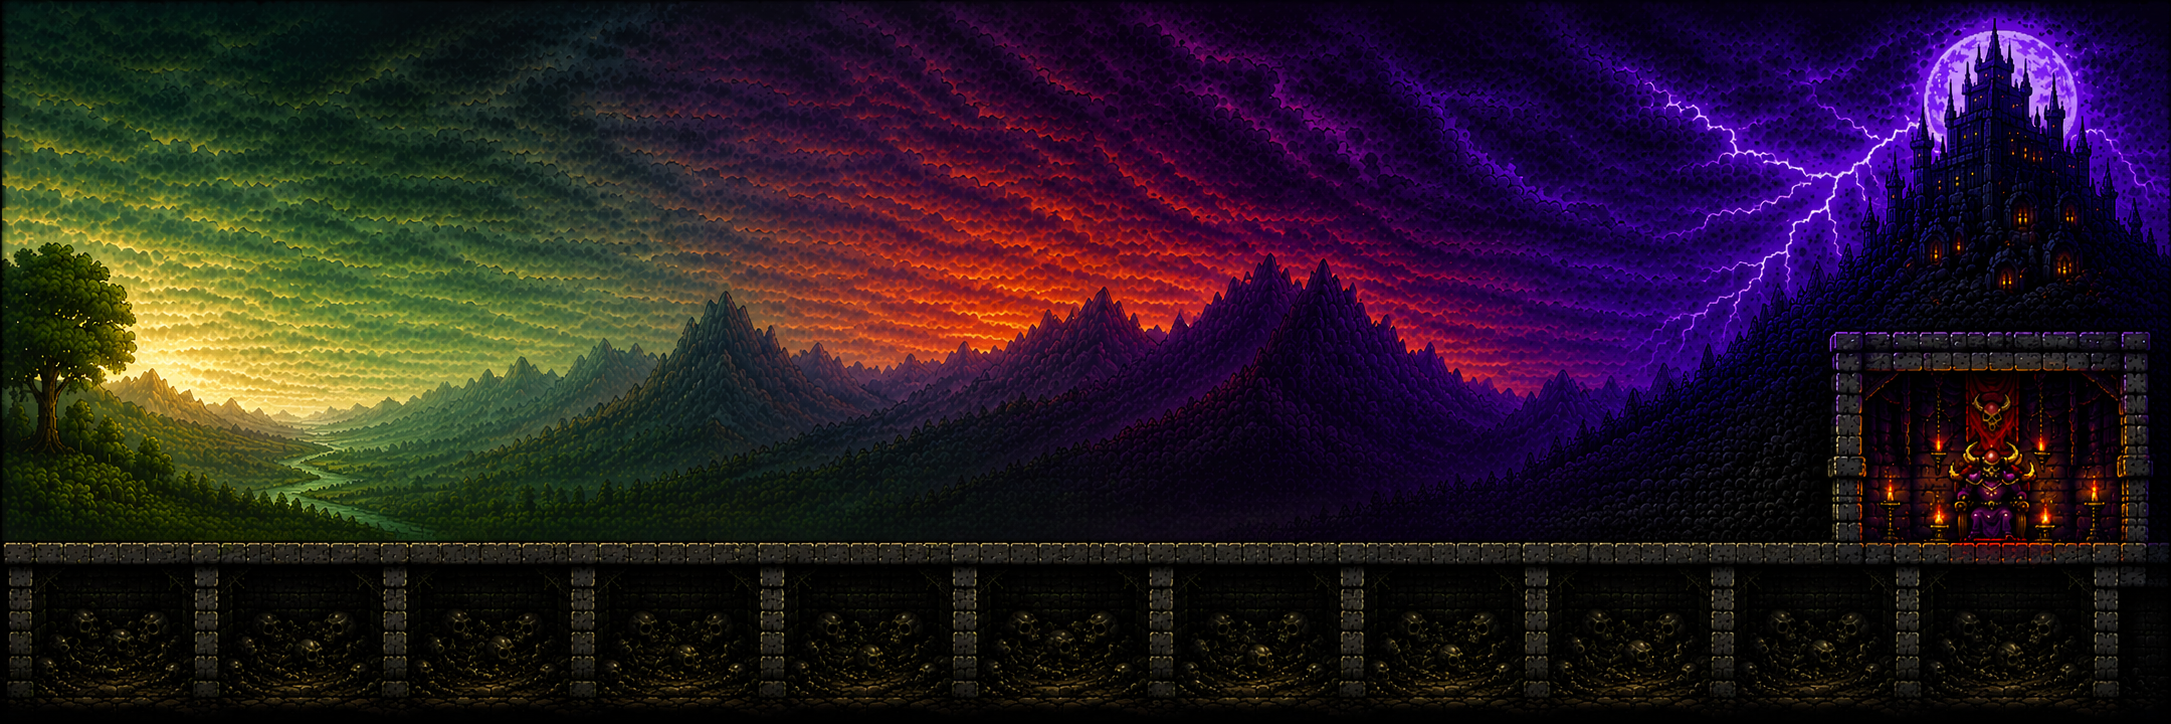
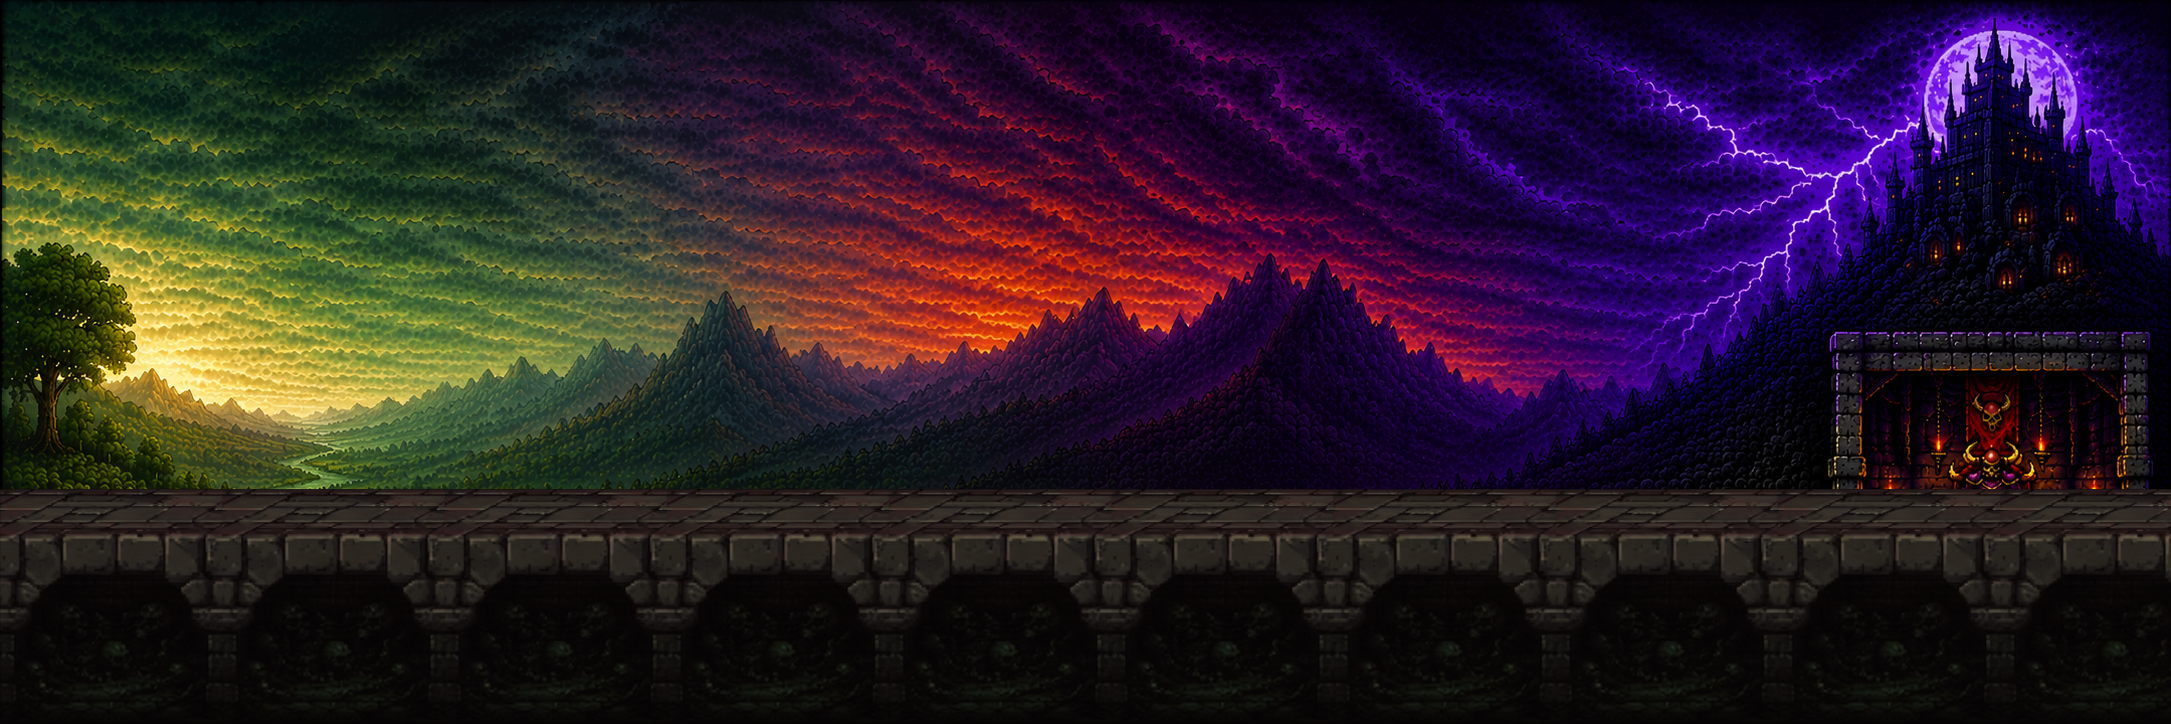
New arena background + 'tap for sound' so the title theme can play
- Swap in the new painted arena backdrop (arena/bg.png, same 2171x724 layout:
  green entrance -> storm-lit throne, wall on the floor line) — drop-in, no code.
- Title music: browsers block audio until a user gesture, and the only title
  action ('Start Game') leaves the screen on that same gesture — so the title
  theme was never heard. Added a subtle '🔊 tap for sound' prompt; any tap starts
  the AudioContext + the title track (updateMusicMood keeps it while on the
  title), and the prompt disappears once sound is on.

npm run check green (11 suites).

Claude-Session: https://claude.ai/code/session_01WiJBWMsUY95w3iiTFionm8

Changed region(s): [[0.0, 0.6685, 1.0, 0.9724]]

diff --git a/no_room_for_heroes/index.html b/no_room_for_heroes/index.html
@@ -236,6 +236,11 @@
     box-shadow:0 4px 0 #5a0d12, inset 0 0 0 1px rgba(255,255,255,.12);animation:titlePulse 1.6s ease-in-out infinite;}
   .titlestart button:hover:not(:disabled){background:#c8262f;}
   .titlestart button:active:not(:disabled){transform:translateY(3px);box-shadow:0 1px 0 #5a0d12, inset 0 0 0 1px rgba(255,255,255,.12);}
+  /* "tap for sound" prompt: browsers block audio until a gesture, so the title
+     theme can't autoplay — nudge the player to tap, then it starts. */
+  .titlehint{position:absolute;left:50%;bottom:3.5%;transform:translateX(-50%);z-index:3;
+    font-size:12px;color:#cdbaff;opacity:.82;letter-spacing:.5px;pointer-events:none;
+    text-shadow:0 1px 3px #000;animation:titleStartIn .45s ease-out 2.2s both;}
   /* SNES-style: zoom in slowly from a tiny point while spinning 4½×, settle */
   @keyframes logoTwirl{
     0%   {transform:translate(-50%,0) scale(.02) rotate(-1620deg);opacity:0;}
@@ -1438,7 +1443,9 @@ function initAudio(){
   try{ AC=new (window.AudioContext||window.webkitAudioContext)();
     sfxBus=AC.createGain();   sfxBus.gain.value=sfxVol;   sfxBus.connect(AC.destination);
     musicBus=AC.createGain(); musicBus.gain.value=musVol; musicBus.connect(AC.destination);
-    startMusic(); }catch(_){ AC=null; }
+    startMusic();
+    const _th=document.getElementById('titlehint'); if(_th) _th.style.display='none';   // sound's on — drop the prompt
+  }catch(_){ AC=null; }
 }
 function tone(freq,dur,type,vol,slideTo,bus){
   if(!AC||!audioOn) return;
@@ -1679,6 +1686,7 @@ function titleScreen(){
       <div class="tbg" id="titlebg"></div>
       <img class="titlelogo" src="title/logo.png" alt="No Room For Heroes" onerror="titleLogoFail(this)">
       <div class="titlestart"><button class="go" onclick="leaveTitle()">▶ Start Game</button></div>
+      ${(typeof AC!=='undefined' && AC)?'':'<div class="titlehint" id="titlehint">🔊 tap for sound</div>'}
     </div>`;
   const bg=document.getElementById('titlebg');                 // swap to the painted
   if(bg && typeof Image!=='undefined'){ const probe=new Image(); probe.onerror=()=>bg.classList.add('missing'); probe.src='title/bg.png'; } // fallback if the art 404s